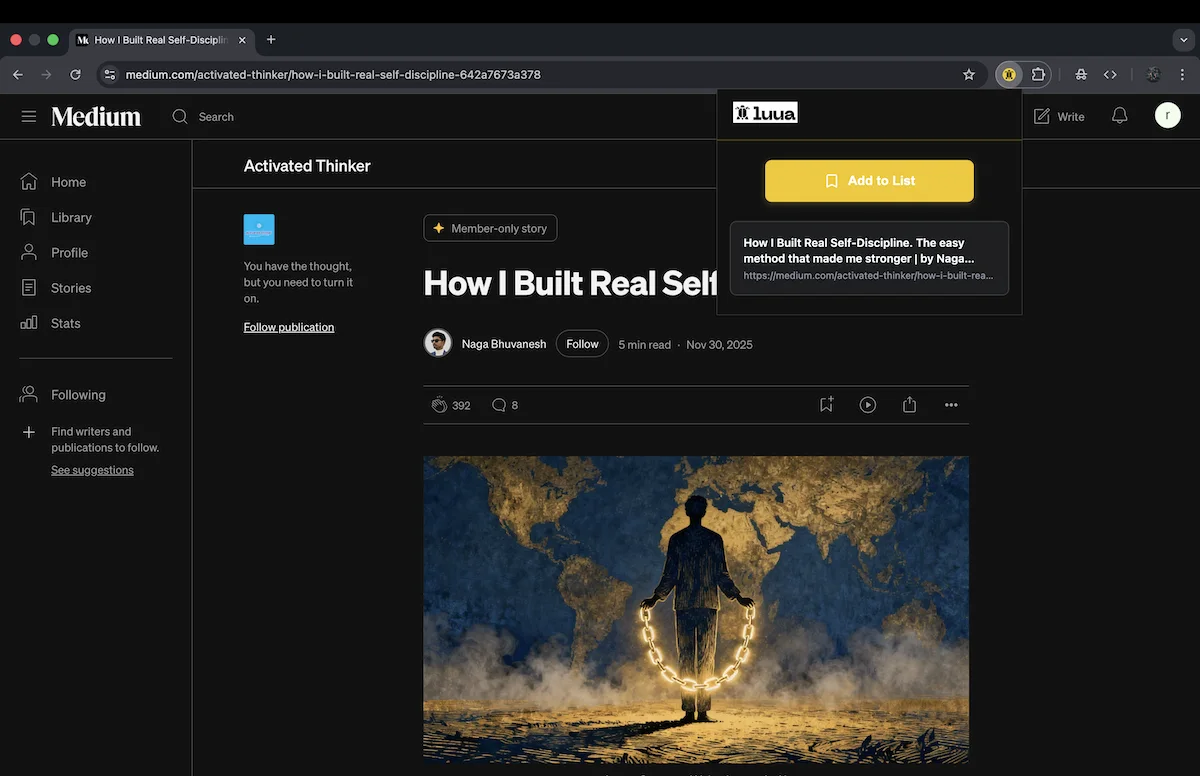
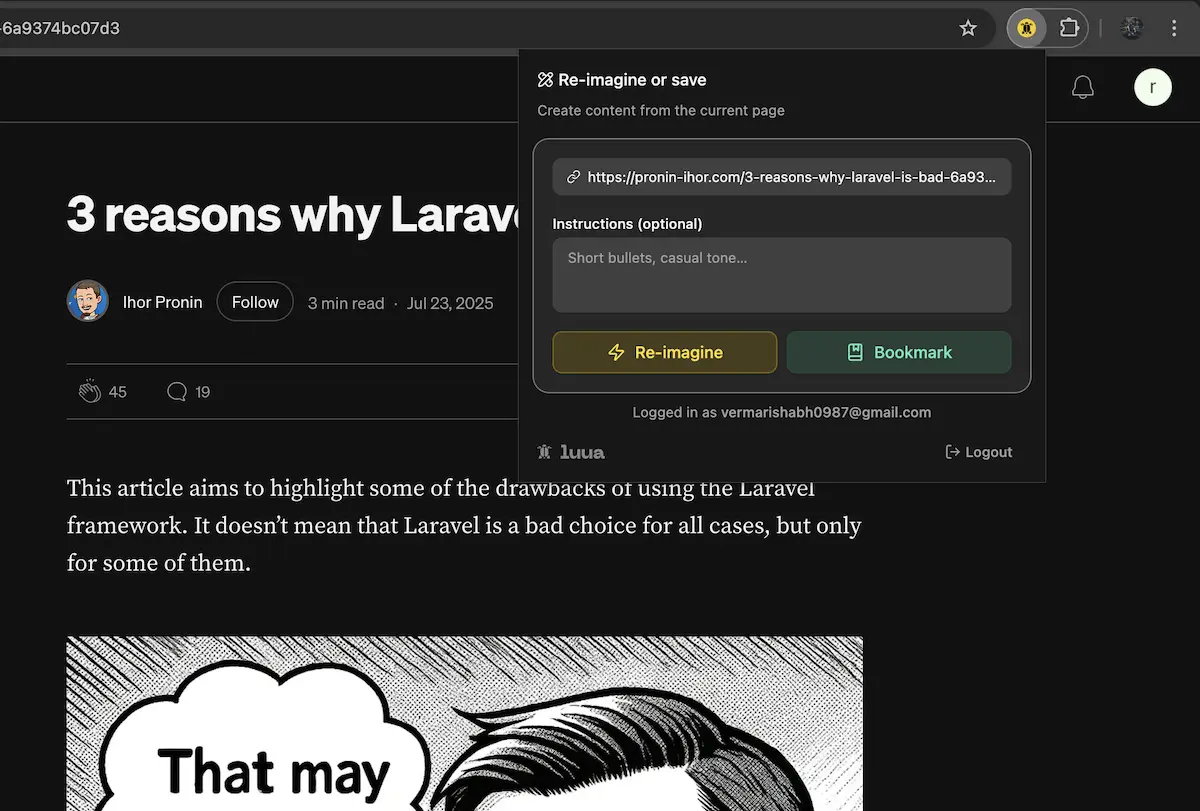
fix: bugs

diff --git a/src/creation/pages/create.tsx b/src/creation/pages/create.tsx
@@ -9,12 +9,19 @@ import PopoverPrompt from '@/core/components/popover-prompt'
 import LinkedInPostCard from '@/core/components/post-card/linkedin-post-card'
 import TwitterPostCard from '@/core/components/post-card/twitter-post-card'
 import { QUERY_KEYS, SOCIAL_PLATFORM } from '@/core/config/constant'
+import {
+  linkedinPrompts,
+  standardPrompts,
+  twitterPrompts,
+  youtubePrompts,
+} from '@/core/config/example-prompts.config'
 import { queryClient } from '@/core/config/global.config'
 import { useUserState } from '@/core/hooks/user-state.hook'
 import { WithOptional } from '@/core/models/common.model'
 import { DraftItem, IDraftRequest, PostItem } from '@/core/models/draft.model'
 import { MediaObject } from '@/core/models/post.model'
 import { channelType } from '@/core/models/social.model'
+import PromptChip from '@/shared/components/prompt-chip'
 import { Tabs, TabsContent, TabsList, TabsTrigger } from '@/shared/ui/tabs'
 import { WordRotate } from '@/shared/ui/word-rotate'
 import { cn } from '@/shared/utils'
@@ -278,6 +285,30 @@ function Create() {
     })
   }
 
+  const handleSuggestionsClick = (value: string) => {
+    setGenerationUserPrompt(value)
+    setGenerationUserSearch(false)
+    setGenerationUserChannel(activeTab)
+  }
+
+  const isSuggestionsVisible = () => {
+    if (activeTab === 'LinkedIn') {
+      return !(
+        postDrafts.LinkedIn?.content ||
+        (postDrafts.LinkedIn?.attached_media?.length ?? 0) > 0
+      )
+    }
+
+    if (activeTab === 'Twitter') {
+      return !(
+        postDrafts.Twitter?.content ||
+        (postDrafts.Twitter?.attached_media?.length ?? 0) > 0
+      )
+    }
+
+    return false
+  }
+
   return (
     <>
       <div className="mx-auto mt-4 max-w-2xl px-4 pb-20">
@@ -366,6 +397,33 @@ function Create() {
             />
           </TabsContent>
         </Tabs>
+
+        {isSuggestionsVisible() && (
+          <div className="flex flex-col gap-4 pt-6">
+            <p className="text-sm font-medium">
+              Out of ideas? Steal one of ours 😎
+            </p>
+
+            <div className="grid grid-cols-1 gap-2 sm:grid-cols-2">
+              <PromptChip
+                data={standardPrompts}
+                onChipClick={handleSuggestionsClick}
+              />
+              <PromptChip
+                data={youtubePrompts}
+                onChipClick={handleSuggestionsClick}
+              />
+              <PromptChip
+                data={linkedinPrompts}
+                onChipClick={handleSuggestionsClick}
+              />
+              <PromptChip
+                data={twitterPrompts}
+                onChipClick={handleSuggestionsClick}
+              />
+            </div>
+          </div>
+        )}
       </div>
       <DraftFooterActions
         loading={isGenerationDataFetching || !getCurrentState()}
@@ -377,6 +435,7 @@ function Create() {
     </>
   )
 }
+
 export const Route = createLazyRoute('/creation/create')({
   component: Create,
 })

diff --git a/src/core/components/popover-prompt.tsx b/src/core/components/popover-prompt.tsx
@@ -2,7 +2,6 @@ import { Globe, Loader2, Sparkles } from 'lucide-react'
 import { AnimatePresence, motion } from 'motion/react'
 import { useState } from 'react'
 
-import PromptChip from '@/shared/components/prompt-chip'
 import { Button } from '@/shared/ui/button'
 import { Popover, PopoverContent, PopoverTrigger } from '@/shared/ui/popover'
 import { RainbowButton } from '@/shared/ui/rainbow-button'
@@ -12,12 +11,6 @@ import { WordRotate } from '@/shared/ui/word-rotate'
 import { cn } from '@/shared/utils'
 
 import { EDIT_PROMPT_TEXT, SUGGESTED_PROMPT_TEXT } from '../config/constant'
-import {
-  linkedinPrompts,
-  standardPrompts,
-  twitterPrompts,
-  youtubePrompts,
-} from '../config/example-prompts.config'
 
 interface PopoverPromptProps {
   disabled?: boolean
@@ -180,8 +173,8 @@ function PopoverPrompt(props: PopoverPromptProps) {
         {/** Divider */}
         <hr />
 
-        {/** Example Prompts */}
-        <p className="text-foreground px-3 pt-3 text-xs font-medium">
+        {/** TODO: Commenting for now, Example Prompts */}
+        {/*<p className="text-foreground px-3 pt-3 text-xs font-medium">
           Out of ideas? Steal one of ours 😎
         </p>
 
@@ -206,7 +199,7 @@ function PopoverPrompt(props: PopoverPromptProps) {
             onChipClick={value => handleSubmit(value)}
             onHoverPreview={setHoverPreview}
           />
-        </div>
+        </div>*/}
       </PopoverContent>
     </Popover>
   )
